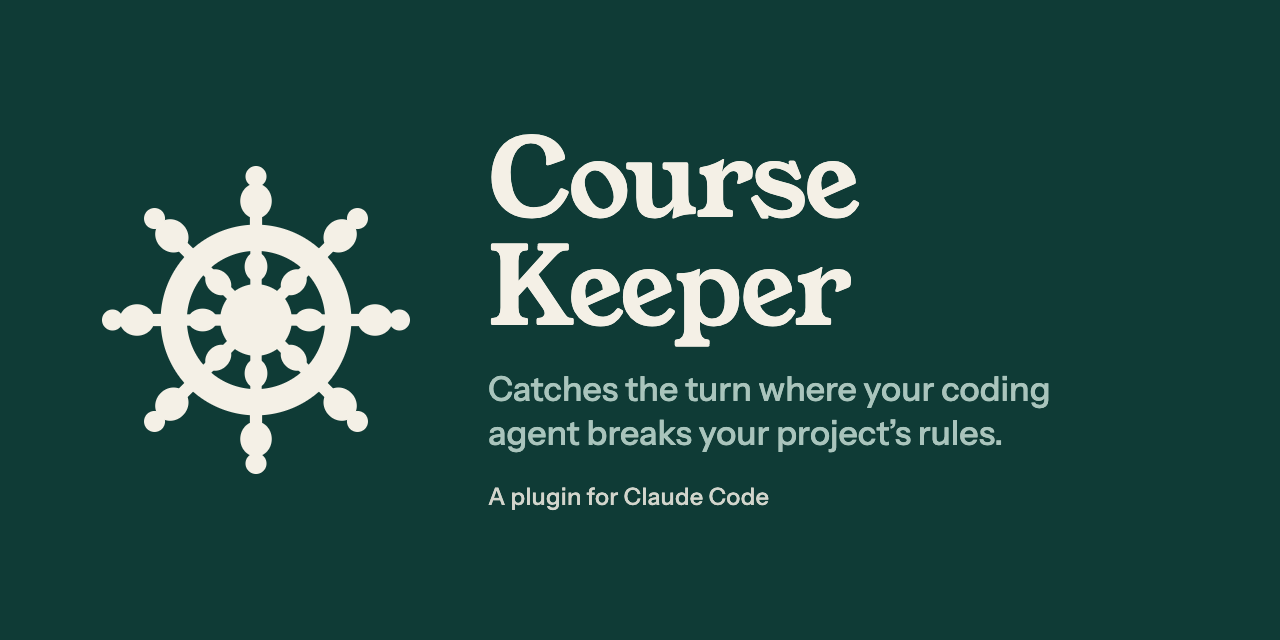
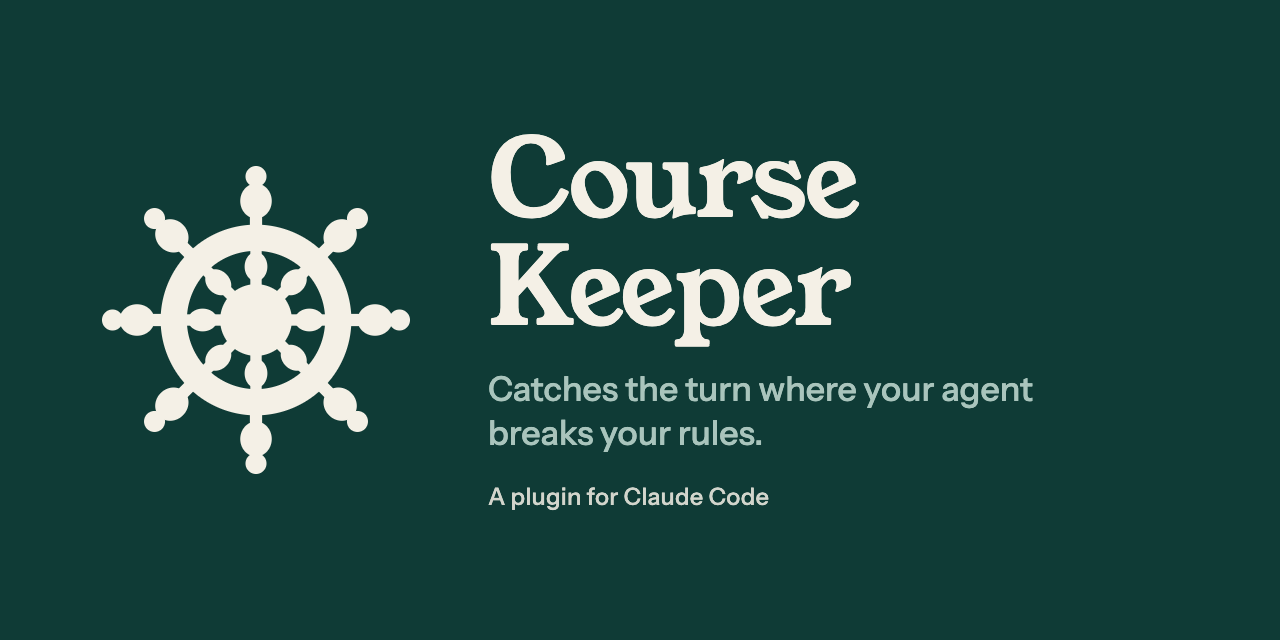
Shorten the tagline to "Catches the turn where your agent breaks your rules."

Changed region(s): [[0.375, 0.5938, 0.8438, 0.7188]]

diff --git a/docs/images/source/banner.html b/docs/images/source/banner.html
@@ -13,5 +13,5 @@ p.by{color:var(--cream);font-size:calc(var(--t)*.7);margin-top:calc(var(--tgap)*
 </style></head><body style="--pad:110px;--gap:84px;--wheel:340px;--h:136px;--t:40px;--tgap:28px;--measure:900px">
 <div class="wheel"><svg viewBox="0 0 1024 1024" xmlns="http://www.w3.org/2000/svg"><g transform="translate(512 512) scale(1.4)" fill="#F4F0E6"><circle r="188" fill="none" stroke="#F4F0E6" stroke-width="60"/><circle r="82"/><g transform="rotate(0)"><rect x="-13" y="-170" width="26" height="100"/><ellipse cx="0" cy="-122" rx="26" ry="33"/><rect x="-14" y="-250" width="28" height="40"/><ellipse cx="0" cy="-272" rx="36" ry="40"/><rect x="-11" y="-320" width="22" height="22"/><circle cx="0" cy="-328" r="24"/></g><g transform="rotate(45)"><rect x="-13" y="-170" width="26" height="100"/><ellipse cx="0" cy="-122" rx="26" ry="33"/><rect x="-14" y="-250" width="28" height="40"/><ellipse cx="0" cy="-272" rx="36" ry="40"/><rect x="-11" y="-320" width="22" height="22"/><circle cx="0" cy="-328" r="24"/></g><g transform="rotate(90)"><rect x="-13" y="-170" width="26" height="100"/><ellipse cx="0" cy="-122" rx="26" ry="33"/><rect x="-14" y="-250" width="28" height="40"/><ellipse cx="0" cy="-272" rx="36" ry="40"/><rect x="-11" y="-320" width="22" height="22"/><circle cx="0" cy="-328" r="24"/></g><g transform="rotate(135)"><rect x="-13" y="-170" width="26" height="100"/><ellipse cx="0" cy="-122" rx="26" ry="33"/><rect x="-14" y="-250" width="28" height="40"/><ellipse cx="0" cy="-272" rx="36" ry="40"/><rect x="-11" y="-320" width="22" height="22"/><circle cx="0" cy="-328" r="24"/></g><g transform="rotate(180)"><rect x="-13" y="-170" width="26" height="100"/><ellipse cx="0" cy="-122" rx="26" ry="33"/><rect x="-14" y="-250" width="28" height="40"/><ellipse cx="0" cy="-272" rx="36" ry="40"/><rect x="-11" y="-320" width="22" height="22"/><circle cx="0" cy="-328" r="24"/></g><g transform="rotate(225)"><rect x="-13" y="-170" width="26" height="100"/><ellipse cx="0" cy="-122" rx="26" ry="33"/><rect x="-14" y="-250" width="28" height="40"/><ellipse cx="0" cy="-272" rx="36" ry="40"/><rect x="-11" y="-320" width="22" height="22"/><circle cx="0" cy="-328" r="24"/></g><g transform="rotate(270)"><rect x="-13" y="-170" width="26" height="100"/><ellipse cx="0" cy="-122" rx="26" ry="33"/><rect x="-14" y="-250" width="28" height="40"/><ellipse cx="0" cy="-272" rx="36" ry="40"/><rect x="-11" y="-320" width="22" height="22"/><circle cx="0" cy="-328" r="24"/></g><g transform="rotate(315)"><rect x="-13" y="-170" width="26" height="100"/><ellipse cx="0" cy="-122" rx="26" ry="33"/><rect x="-14" y="-250" width="28" height="40"/><ellipse cx="0" cy="-272" rx="36" ry="40"/><rect x="-11" y="-320" width="22" height="22"/><circle cx="0" cy="-328" r="24"/></g></g></svg></div>
 <div><h1>Course Keeper</h1>
-<p>Catches the turn where your coding agent breaks your project&rsquo;s&nbsp;rules.</p><p class="by">A plugin for Claude Code</p></div>
+<p>Catches the turn where your agent<br>breaks your rules.</p><p class="by">A plugin for Claude Code</p></div>
 </body></html>

diff --git a/docs/images/source/social-preview.html b/docs/images/source/social-preview.html
@@ -13,5 +13,5 @@ p.by{color:var(--cream);font-size:calc(var(--t)*.7);margin-top:calc(var(--tgap)*
 </style></head><body style="--pad:96px;--gap:72px;--wheel:320px;--h:108px;--t:34px;--tgap:24px;--measure:660px">
 <div class="wheel"><svg viewBox="0 0 1024 1024" xmlns="http://www.w3.org/2000/svg"><g transform="translate(512 512) scale(1.4)" fill="#F4F0E6"><circle r="188" fill="none" stroke="#F4F0E6" stroke-width="60"/><circle r="82"/><g transform="rotate(0)"><rect x="-13" y="-170" width="26" height="100"/><ellipse cx="0" cy="-122" rx="26" ry="33"/><rect x="-14" y="-250" width="28" height="40"/><ellipse cx="0" cy="-272" rx="36" ry="40"/><rect x="-11" y="-320" width="22" height="22"/><circle cx="0" cy="-328" r="24"/></g><g transform="rotate(45)"><rect x="-13" y="-170" width="26" height="100"/><ellipse cx="0" cy="-122" rx="26" ry="33"/><rect x="-14" y="-250" width="28" height="40"/><ellipse cx="0" cy="-272" rx="36" ry="40"/><rect x="-11" y="-320" width="22" height="22"/><circle cx="0" cy="-328" r="24"/></g><g transform="rotate(90)"><rect x="-13" y="-170" width="26" height="100"/><ellipse cx="0" cy="-122" rx="26" ry="33"/><rect x="-14" y="-250" width="28" height="40"/><ellipse cx="0" cy="-272" rx="36" ry="40"/><rect x="-11" y="-320" width="22" height="22"/><circle cx="0" cy="-328" r="24"/></g><g transform="rotate(135)"><rect x="-13" y="-170" width="26" height="100"/><ellipse cx="0" cy="-122" rx="26" ry="33"/><rect x="-14" y="-250" width="28" height="40"/><ellipse cx="0" cy="-272" rx="36" ry="40"/><rect x="-11" y="-320" width="22" height="22"/><circle cx="0" cy="-328" r="24"/></g><g transform="rotate(180)"><rect x="-13" y="-170" width="26" height="100"/><ellipse cx="0" cy="-122" rx="26" ry="33"/><rect x="-14" y="-250" width="28" height="40"/><ellipse cx="0" cy="-272" rx="36" ry="40"/><rect x="-11" y="-320" width="22" height="22"/><circle cx="0" cy="-328" r="24"/></g><g transform="rotate(225)"><rect x="-13" y="-170" width="26" height="100"/><ellipse cx="0" cy="-122" rx="26" ry="33"/><rect x="-14" y="-250" width="28" height="40"/><ellipse cx="0" cy="-272" rx="36" ry="40"/><rect x="-11" y="-320" width="22" height="22"/><circle cx="0" cy="-328" r="24"/></g><g transform="rotate(270)"><rect x="-13" y="-170" width="26" height="100"/><ellipse cx="0" cy="-122" rx="26" ry="33"/><rect x="-14" y="-250" width="28" height="40"/><ellipse cx="0" cy="-272" rx="36" ry="40"/><rect x="-11" y="-320" width="22" height="22"/><circle cx="0" cy="-328" r="24"/></g><g transform="rotate(315)"><rect x="-13" y="-170" width="26" height="100"/><ellipse cx="0" cy="-122" rx="26" ry="33"/><rect x="-14" y="-250" width="28" height="40"/><ellipse cx="0" cy="-272" rx="36" ry="40"/><rect x="-11" y="-320" width="22" height="22"/><circle cx="0" cy="-328" r="24"/></g></g></svg></div>
 <div><h1>Course Keeper</h1>
-<p>Catches the turn where your coding agent breaks your project&rsquo;s&nbsp;rules.</p><p class="by">A plugin for Claude Code</p></div>
+<p>Catches the turn where your agent<br>breaks your rules.</p><p class="by">A plugin for Claude Code</p></div>
 </body></html>

diff --git a/README.md b/README.md
@@ -1,5 +1,5 @@
 <p align="center">
-  <img src="docs/images/banner.png" alt="Course Keeper. Catches the turn where your coding agent breaks your project's rules. A plugin for Claude Code." width="800">
+  <img src="docs/images/banner.png" alt="Course Keeper. Catches the turn where your agent breaks your rules. A plugin for Claude Code." width="800">
 </p>
 
 You wrote down how your project works. One module handles money. The tool never sends email. Three hours into a session, your agent takes a shortcut that breaks one of those rules, and you find it in review the next day.
